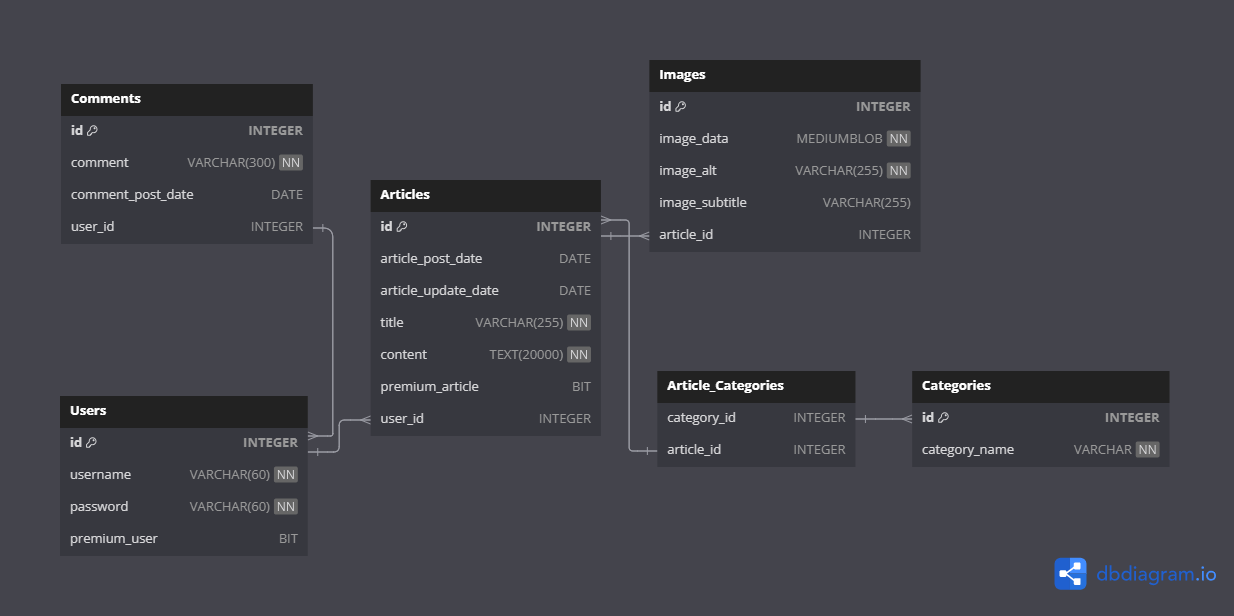
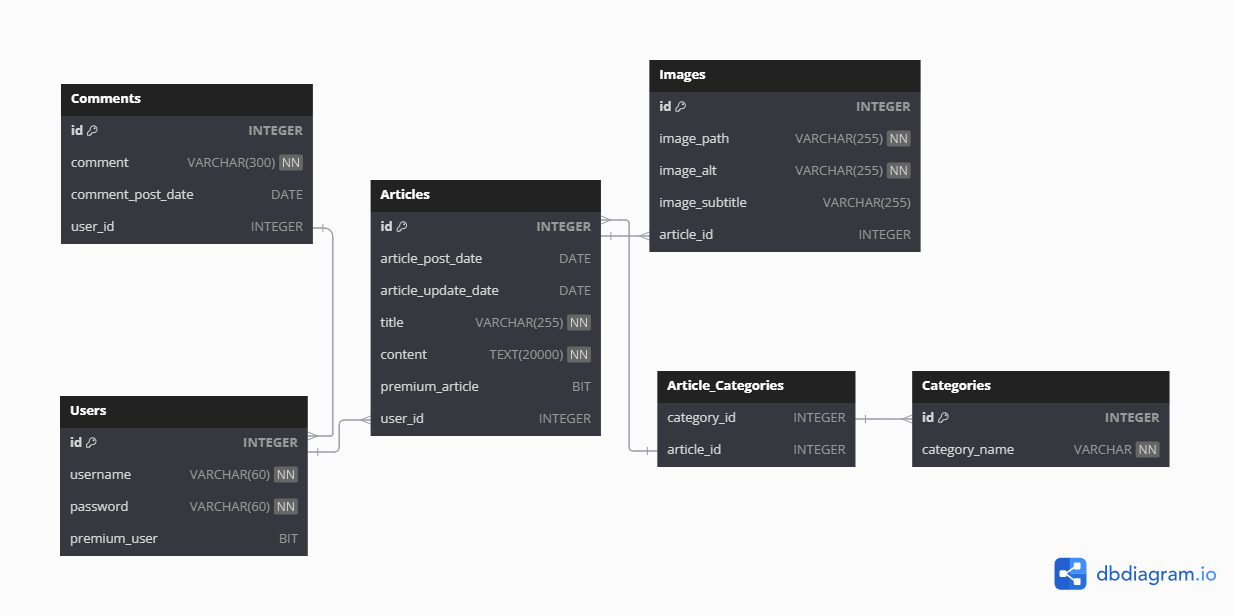
Changed migration & DB design for image uploading

diff --git a/app/Http/Controllers/ArticleController.php b/app/Http/Controllers/ArticleController.php
@@ -5,10 +5,14 @@ namespace App\Http\Controllers;
 use App\Http\Requests\StoreArticleRequest;
 use App\Http\Requests\UpdateArticleRequest;
 use Illuminate\Http\Request;
+use Illuminate\Support\Facades\Storage;
+
 use App\Models\Article;
 use App\Models\ArticleCategory;
 use App\Models\Category;
 use App\Models\Comment;
+use App\Models\Image;
+
 use Illuminate\Support\Facades\Auth;
 
 class ArticleController extends Controller
@@ -97,9 +101,30 @@ class ArticleController extends Controller
     //Function to store a newly created article
     public function store(StoreArticleRequest $request){
         $validated = $request->validated();
+        
         //Create the new article
-        $newArticle = ['title' => $validated['title'], 'content' => $validated['content'], 'user_id' => Auth::id()];
+        $newArticle = [
+            'title' => $validated['title'],
+            'content' => $validated['content'],
+            'user_id' => Auth::id()
+        ];
         $article = Article::create($newArticle);
+        //Check if there's image data present, and write this to the database aswell.
+        if($validated['image'] != null){
+            $imagePath = Storage::putFileAs(
+                'images',
+                $request->file('image_data'),
+                //Okay seriously, why does putFileAs not add a file extension, who thought that was a good idea?
+                'article_image_'.$article->id.'.' . $request['image_data']->getClientOriginalExtension()
+            );
+            $newImage = [
+                'image_path' => $imagePath,
+                'image_alt' => $validated['title'] . ' Afbeelding',
+                'image_subtitle' => $validated['image-subtitle'],
+                'article_id' => $article->id
+            ];
+            Image::create($newImage);
+        }
         //And the fitting article_categories
         //First, an empty array to create things with.
         $createArray = [];

diff --git a/resources/views/articles/create.blade.php b/resources/views/articles/create.blade.php
@@ -3,7 +3,7 @@
 
 @section('content')
 <div id="centered-form">
-    <form action="{{ route('articles.store') }}" method="POST">
+    <form action="{{ route('articles.store') }}" method="POST" enctype="multipart/form-data">
         @csrf
         <div class="centered-content">
             <label for="title">Titel: </label>
@@ -22,6 +22,13 @@
                 @endforeach
             </select>
         </div>
+        <div class="centered-content">
+            <label for="image-upload">Afbeelding Toevoegen</label>
+            <input type="file" name="image_data" id="image-upload" accept="image/png, image/jpeg">
+            <label for="subtitle">Ondertiteling</label>
+            <input type="text" name="image_subtitle" id="subtitle" minlength="3" maxlength="255">
+        </div>
+        
         <div class="centered-content">
             <button type="submit">Artikel Plaatsen</button>
         </div>

diff --git a/app/Http/Requests/StoreArticleRequest.php b/app/Http/Requests/StoreArticleRequest.php
@@ -3,6 +3,7 @@
 namespace App\Http\Requests;
 
 use Illuminate\Foundation\Http\FormRequest;
+use Illuminate\Validation\Rules\File;
 
 class StoreArticleRequest extends FormRequest
 {
@@ -25,7 +26,9 @@ class StoreArticleRequest extends FormRequest
             'title' => 'required|max:255|min:3',
             'content' => 'required|max:20000|min:3',
             'category' => 'required|array',
-            'category.*' => 'required'
+            'category.*' => 'required',
+            'image_data' => 'nullable', File::image()->min('1kb')->max('10mb'),
+            'image_subtitle' => 'nullable|max:255|min:3'
         ];
     }
 }

diff --git a/database/factories/ImageFactory.php b/database/factories/ImageFactory.php
@@ -18,7 +18,7 @@ class ImageFactory extends Factory
     public function definition(): array
     {
         return [
-            'image_data' => $this->faker->emoji, //Since placeholder.com has shut down, this is unfortunately the best next thing.
+            'image_path' => 'https://picsum.photos/500', //Since placeholder.com has shut down I'll just use this.
             'image_alt' => $this->faker->sentence,
             'image_subtitle' => $this->faker->sentence,
             'article_id' => Article::inRandomOrder()->first()->id,

diff --git a/database/migrations/2024_08_26_114111_create_images_table.php b/database/migrations/2024_08_26_114111_create_images_table.php
@@ -13,7 +13,7 @@ return new class extends Migration
     {
         Schema::create('images', function (Blueprint $table) {
             $table->id();
-            $table->mediumText('image_data')->charset('binary'); //Medium BLOB
+            $table->string('image_path', length: 255);
             $table->string('image_alt', length: 255);
             $table->string('image_subtitle', length: 255)->nullable();
             $table->foreignId('article_id');

diff --git a/config/filesystems.php b/config/filesystems.php
@@ -13,7 +13,7 @@ return [
     |
     */
 
-    'default' => env('FILESYSTEM_DISK', 'local'),
+    'default' => env('FILESYSTEM_DISK', 'public'),
 
     /*
     |--------------------------------------------------------------------------
@@ -71,6 +71,7 @@ return [
 
     'links' => [
         public_path('storage') => storage_path('app/public'),
+        public_path('images') => storage_path('app/images'),
     ],
 
 ];

diff --git a/app/Models/Image.php b/app/Models/Image.php
@@ -10,7 +10,7 @@ class Image extends Model
     use HasFactory;
     //Disable timestamps.
     public $timestamps = false;
-    protected $fillable = ['image_data', 'image_alt', 'image_subtitle', 'article_id'];
+    protected $fillable = ['image_path', 'image_alt', 'image_subtitle', 'article_id'];
     public function article(){
         return $this->belongsTo(Article::class);
     }
